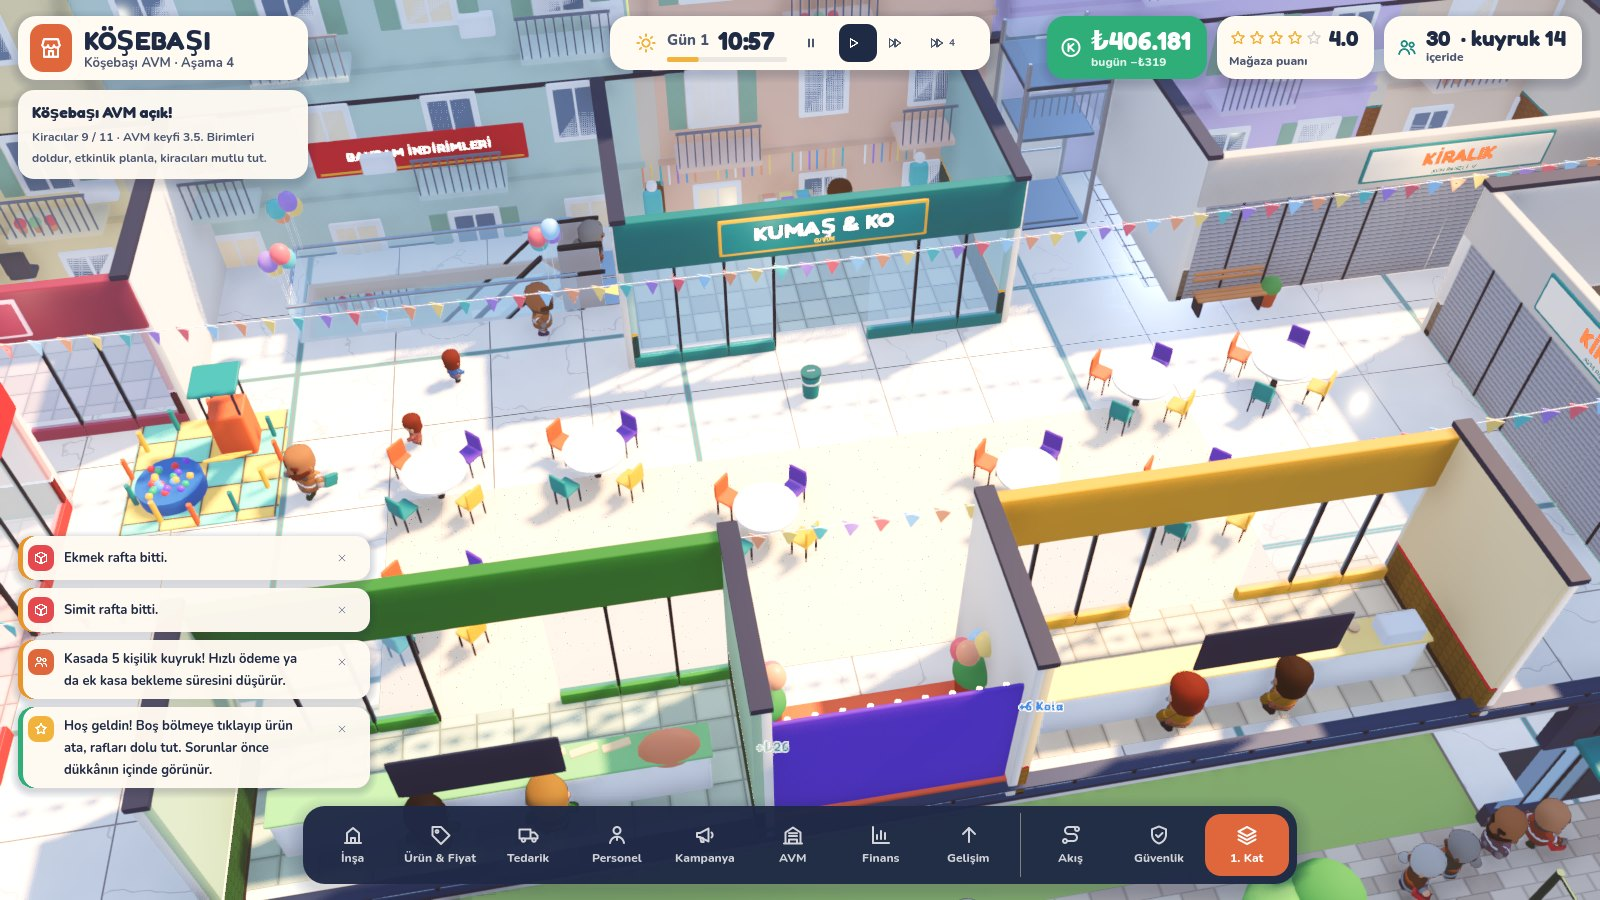
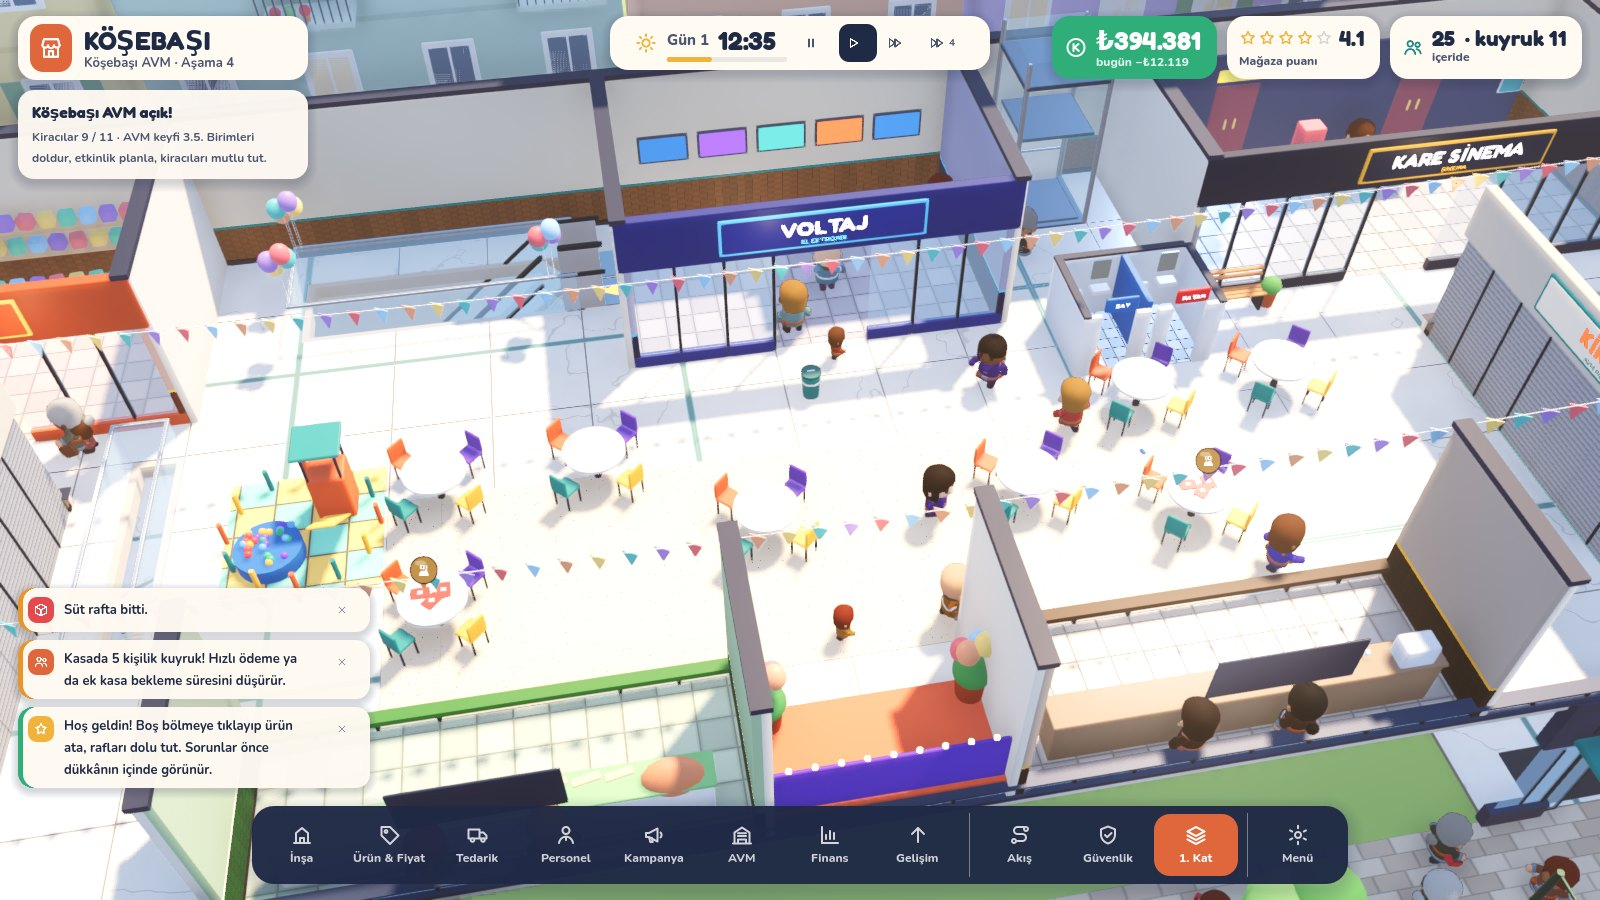
Godot: fix half-tile AVM unit offset, apartments clipping the AVM, selection crash; docs
- Rect2i.get_center() rounds to whole tiles: odd-sized units had floors and
  furniture shifted (cinema lobby wall ended up behind the building wall)
- Back-row apartments step back when the AVM opens so balconies no longer
  poke through its back wall
- Comparing a unit/puddle selection with an agent crashed the tick
- Wet-floor sign lowers slip chance; no baking after 19:00
- README and roadmap: new features, screenshots, honest limits

Claude-Session: https://claude.ai/code/session_01Sq7dPorU9H7nv5mf7S6iVF

diff --git a/godot/README.md b/godot/README.md
@@ -13,6 +13,10 @@ Oyunun yeni ana sürümü. Masaüstünde normal bir oyun gibi çalışır; taray
 | ![Kampanya](docs/kampanya.jpg) | ![Vardiya](docs/vardiya.jpg) |
 | **Güvenlik katmanı (G): kırmızı = kör nokta** | **Mahalle Marketi** |
 | ![Güvenlik](docs/guvenlik.jpg) | ![Mahalle Marketi](docs/market.jpg) |
+| **Odalar: soğuk oda, depo odası, gondol başı teşhir** | **Otopark: arabayla gelen müşteri yaya geçidinden geçer** |
+| ![Odalar](docs/odalar.jpg) | ![Otopark](docs/otopark.jpg) |
+| **Sinema, tuvaletler ve cam asansör** | **Ayarlar menüsü** |
+| ![Sinema](docs/sinema.jpg) | ![Ayarlar](docs/ayarlar.jpg) |
 
 | Gece | Rafa ürün atama |
 |---|---|
@@ -51,6 +55,7 @@ Mac ve Linux için de aynı adımları izle; 2. adımda kendi işletim sistemini
 | `R` | Yerleştirirken döndür. `Shift`+tık: arka arkaya yerleştir. Sağ tık / `Esc`: iptal |
 | `Boşluk` · `1` `2` `3` | Duraklat · 1× / 2× / 4× hız |
 | `C` | Kesik duvar görünümünü aç/kapat |
+| `Esc` | Açık paneli / seçimi kapatır; hiçbiri yoksa menüyü açar (Kaydet, Yükle, Ayarlar) |
 | Dokunmatik ekran | Tek parmakla kaydır, iki parmakla yakınlaştır ve döndür |
 
 ## Görsel yön
@@ -74,6 +79,15 @@ Dört aşamanın dördü de oynanabilir: **Büfe → Mahalle Marketi → Süperm
   - **Fırın tezgâhı ve fırıncı:** ucuz simit ve ekmek; "sıcacık" moral bonusu, fırın ağzı parlar.
   - **Reyon levhaları:** levhasız reyonda müşteri rafı daha geç bulur.
   - **Alışveriş arabası parkı:** haftalık alışverişçi araba iter; park yoksa listesi kısalır.
+  - **Odalar (personele özel, duvarlı):** personel kapıdan içeri girip çıkar.
+    - **Depo Odası:** +240 birim kapasite; satış alanını depo raflarıyla doldurmazsın.
+    - **Soğuk Oda:** yoksa depodaki süt, ayran, peynir ve içeceklerin %30'u her gece bozulur.
+    - **Mola Odası:** personel çay ocağından iki kat hızlı dinlenir, herkes biraz daha hızlı çalışır.
+  - **Ekmek tazeliği:** simit ve ekmek gün içinde bayatlar (rafta "sıcacık / taze / bayat" etiketi). Bayat ekmeği müşteri almayabilir.
+    - Satılmayan ekmek gece çöpe gider (gün sonu raporunda zarar olarak görünür).
+    - Sabah raflar fırıncının gece pişirdiği ya da fırından gelen ekmekle dolar.
+    - İstersen fırın kartından **akşam indirimi** açılır: 19:00'dan sonra %40 ucuz.
+  - **Gondol Başı Teşhir:** koridor başındaki teşhir; yanından geçen müşteri listesinde olmasa da ürünü alabilir.
 - **Güvenlik ve hırsızlık:**
   - Fırsatçı müşteri kimse bakmıyorsa ürünü cebine atar.
   - Dönen tavan kamerasının görüş konisini yüksek raflar keser.
@@ -87,36 +101,47 @@ Dört aşamanın dördü de oynanabilir: **Büfe → Mahalle Marketi → Süperm
 - **Kampanyalar (`K`):**
   - Broşür Dağıtımı: kapıda tanıtımcı durur.
   - Günün İndirimleri: en fazla 3 ürün seçilir, rafta kırmızı etiket çıkar.
+  - **3 Al 2 Öde:** seçilen ürünlerde müşteri üçlü alır, üçüncüsü bedava. Rafta sarı "3=2" etiketi çıkar.
   - Kasa Önü Standı ve Tadım Günü.
+- **Otopark:** "Otopark Anlaşması" yükseltmesi alınınca yolun karşısında otopark açılır. Haftalık alışverişçiler arabayla gelip park eder, yaya geçidinden karşıya geçer, alışveriş sonrası arabasına dönüp gider. Yaya geçidinde biri varken arabalar durur.
 - **Köşebaşı AVM (iki kat):** süpermarket zemin katta kalır, bloğun tamamı alışveriş merkezi olur.
-  - **11 kiracı birimi, 10 kurgusal marka:** giyim, elektronik, kitabevi, oyuncakçı, kuaför, oyun salonu, spor ve üç yemek standı.
+  - **11 kiracı birimi, 11 kurgusal marka:** giyim, elektronik, kitabevi, oyuncakçı, kuaför, oyun salonu, spor, sinema ve üç yemek standı.
+  - **Sinema (KARE SİNEMA):** yalnızca büyük birimlere (45 m² üstü) gelir. Seyirci salona girer, film boyunca görünmez, çıkınca AVM keyfi artar. Yemek katı doluysa sinema daha mutlu olur.
   - **Teklifler ve sözleşme:** her sabah yeni teklifler gelir. Kira artı ciro payı alırsın.
   - **Kiracı memnuniyeti gerekçeli:** "yürüyen merdivene uzak", "yanında gürültülü oyun salonu", "sadece 4 koltuk var" gibi. İki gün mutsuz kalan kiracı çıkar.
   - **Kiracı vitrinleri:** marka renginde vitrin, tabela, kendi mobilyası ve tezgâhta çalışan personel. Boş birimde kepenk ve "KİRALIK" levhası var.
-  - **Katlar arası ulaşım:** yukarı ve aşağı yürüyen merdiven ile cam asansör. Ziyaretçiler katlar arasında yol bulur.
-  - **Arızalar:** merdiven ya da asansör arızalanabilir. Önüne "ARIZALI" bariyeri gelir; tıklayıp tamir ettirirsin.
+  - **Katlar arası ulaşım:** yukarı ve aşağı yürüyen merdiven, cam asansör ve normal merdiven. Ziyaretçiler katlar arasında yol bulur; emekliler asansörü, gençler merdiveni kullanır.
+  - **Arızalar:** yürüyen merdiven ya da asansör arızalanabilir; normal merdiven hiç bozulmaz. Arızanın önüne "ARIZALI" bariyeri gelir.
+    - Tamir için ya dışarıdan ücretli usta çağırırsın (tıkla) ya da **Teknisyen** işe alırsın.
+    - Teknisyen arızaya koşup ücretsiz tamir eder, düzenli bakımla arıza sayısını yarıya indirir.
+  - **Tuvalet:** ziyaretçilerin ihtiyacı var. Tuvalet yoksa herkes söylenir, kiracılar da memnuniyetsizleşir. Kullanıldıkça kirlenir, temizlik görevlisi siler.
   - **Yemek katı:** masalar, sahne, çocuk oyun alanı ve banklar. Masalar kirlenir, temizlik görevlisi toplar.
   - **4 etkinlik:** Akşam Konseri (sahnede grup çalar), İmza Günü, Bayram İndirimleri, Çocuk Şenliği. Her birinin kendi süslemesi var (bayrak dizisi, balonlar, pankart). Güvenliksiz kalabalıkta arbede çıkar.
   - **Ziyaretçiler:** 4 arketip (genç, aile, profesyonel, emekli çift). Aileler çocuklarıyla gelir. Ziyaretçiye tıklayınca aklından geçenler görünür.
   - **Görünüm:** kamera kat değiştirince üst kat gizlenir, uzaklaşınca tüm bina ve çatıdaki "KÖŞEBAŞI AVM" tabelası görünür. Kameraya bakan duvarlar ve vitrinler yakınlaşınca iner.
 - **Ortak sistemler:**
-  - 15 ürün, 21 eşya ve 6 müşteri arketipi.
-  - Personel rolleri: kasiyer, reyon görevlisi, temizlik, güvenlik ve fırıncı.
+  - 15 ürün, 26 eşya ve 6 müşteri arketipi.
+  - Personel rolleri: kasiyer, reyon görevlisi, temizlik, güvenlik, fırıncı ve teknisyen.
   - Tedarik ve toptancı minibüsü.
   - Gün sonu raporu: hırsızlık, kayma, yorgunluk ve AVM satırlarıyla, tavsiyelerle birlikte.
   - 9 yükseltme; uyarılar, ısı haritası, fare üstü bilgiler.
+- **Kayıt ve ayarlar:**
+  - Oyun her sabah otomatik kaydedilir. Açılış ekranında "Devam et" düğmesi çıkar.
+  - Menüden (`Esc`) 3 kayıt yuvasına kaydedip yükleyebilirsin. Yüklenen oyun o günün sabahından başlar.
+  - Ayarlar: grafik kalitesi (Düşük / Orta / Yüksek), arayüz boyutu, tam ekran, kesik duvar, 4 ses kanalı (ana, müzik, efekt, ortam). Ayarlar kalıcıdır.
+  - Kayıtlar Windows'ta `%APPDATA%\Godot\app_userdata\Tezgâh` klasöründe durur.
+- **Ses:** tüm sesler kodla sentezleniyor, hiçbir ses dosyası yok.
+  - Efektler: yazar kasa, kapı zili, alarm, kayma, yerleştirme, uyarı ve arayüz sesleri.
+  - Müzik: gündüz ve akşam için iki ayrı parça, saate göre yumuşakça geçer.
+  - Ortam: sokak uğultusu ve kuş sesi; dükkân doldukça kalabalık uğultusu artar.
 
-## Henüz olmayanlar (açıkça)
+## Sınırlar (açıkça)
 
-- **Kayıt / yükleme** ve **ayarlar menüsü** yok. Oyun her açılışta baştan başlar. Web sürümünde vardı, Godot'ya taşınmadı.
-- **Müzik ve ses efektleri** yok.
-- Web sürümünde de olmayan, planlanan işler:
-  - AVM: merdiven, sinema, tuvalet ve bakım ekibi.
-  - Süpermarket: personel-only oda / soğuk oda, fırın ürünlerinde tazelik, "3 al 2 öde", fiziksel otopark alanı.
+- Kayıt gün içindeki anı saklamaz: yüklenen oyun o günün 07:00'sinden başlar, o an içerideki müşteriler kaydedilmez.
 - Depoda hazır bir `.exe` yok. Oyun editörden F5 ile çalışır.
   - Tek dosyalık `.exe` istersen: editörde **Proje → Dışa Aktar** (Project → Export) menüsüne gir. Godot bir kez "Export Templates" indirmeni isteyecek, kabul et. Ardından hazır **Windows** ayarıyla **Proje Dışa Aktar**'a bas; `export/Tezgah.exe` oluşur.
   - Dışa aktarma ayarı depoda hazır, ancak bu adımı kendi ortamımda deneyemedim. Editörden F5 ile çalıştırmayı test ettim.
-- Süpermarket ve AVM, betikli başsız simülasyonlarla ve ekran görüntüleriyle test edildi. Uzun oyun dengesi (kaç günde genişlenir, kira/etkinlik fiyatları) gerçek oyuncularla henüz denenmedi.
+- Denge betikli simülasyonlarla ayarlandı: her aşama için hazır bir düzenle günlerce oynatıp kâr, puan, kayıp ve bayat ekmek sayılarına baktım. Gerçek oyuncularla oyun testi yapılmadı; bunu benim yapmam mümkün değil. Genişleme hedeflerinin (özellikle AVM için 4,0★) zorluğu oynayarak ayarlanmalı.
 
 ## Varlıklar ve lisanslar
 
@@ -130,6 +155,7 @@ Dört aşamanın dördü de oynanabilir: **Büfe → Mahalle Marketi → Süperm
 godot/
   project.godot          ana sahne: scenes/main.tscn
   scripts/core/          cfg.gd (sabitler, palet), db.gd (ürünler, eşyalar, arketipler, aşamalar, kampanyalar),
+                         save.gd (JSON kayıt), settings.gd (ayarlar), game_audio.gd (ses sentezi, müzik, ortam),
                          mall_db.gd (AVM birimleri, kiracılar, ziyaretçiler, etkinlikler, merdiven/asansör)
   scripts/sim/           grid.gd (A*, kapı kenarları, katlar), fixture.gd, agent.gd (katlar arası bacaklar),
                          customer.gd, staff.gd (vardiya, görevler), mall.gd (kiracı, etkinlik, arıza), visitor.gd

diff --git a/docs/ROADMAP.md b/docs/ROADMAP.md
@@ -4,6 +4,8 @@ Her aşama sadece daha büyük bir bina değildir. Her biri **yeni bir müşteri
 
 Durum etiketleri: ✅ uygulandı · 🟡 kısmen · ⬜ planlandı
 
+> Ana sürüm artık Godot (`godot/`). Aşağıdaki tablolar Godot sürümünün durumunu gösterir; eski web sürümünde olmayan birkaç sistem (odalar, tazelik, sinema, tuvalet, teknisyen, fiziksel otopark) yalnızca Godot sürümünde var.
+
 ---
 
 ## Aşama 1: Mahalle Büfesi ✅
@@ -36,12 +38,12 @@ Durum etiketleri: ✅ uygulandı · 🟡 kısmen · ⬜ planlandı
 | Reyon levhaları | ✅ | Levhanın 5 m yakınındaki raflar daha hızlı bulunur. Levhasız reyonda arama uzar |
 | Bantlı ve self-servis kasa | ✅ | Bant %35 hızlı. Self-servis kasiyer istemez ama yavaş ve kayıp riski taşır |
 | Güvenlik ve hırsızlık | ✅ | Fırsatçı, kamera (görüş konisi, yüksek raflar görüşü keser), alarm kapısı, güvenlik görevlisi, `G` katmanı |
-| Fırın ve fırıncı | ✅ | Ucuz üretim ve "sıcacık" moral bonusu. 🟡 Tazelik ve bayatlama yok |
+| Fırın ve fırıncı | ✅ | Ucuz üretim ve "sıcacık" moral bonusu. Tazelik, bayatlama, gece çöpe giden ekmek, akşam indirimi |
 | Vardiya ve yorgunluk | ✅ | Tam, sabah ve akşam vardiyası. Enerji barı, çay ocağında mola |
 | Alışveriş arabası | ✅ | Haftalık Alışverişçi araba iter. Park yoksa listesi kısalır |
-| Kampanyalar | ✅ | Broşür, Günün İndirimleri, Kasa Önü Standı, Tadım Günü. 🟡 "3 al 2 öde" ve gondol başı teşhir yok |
-| Oda sistemi | ⬜ | Personel-only depo odası, soğuk oda, mola odası. `doorEdges` altyapısı hazır |
-| Otopark | 🟡 | Yükseltme olarak var (müşteri artışı). Fiziksel otopark alanı yok |
+| Kampanyalar | ✅ | Broşür, Günün İndirimleri, 3 Al 2 Öde, Kasa Önü Standı, Tadım Günü. Gondol başı teşhir eşyası |
+| Oda sistemi | ✅ | Depo odası, soğuk oda (yoksa soğuk stok bozulur), mola odası. Personel kapıdan girip çıkar |
+| Otopark | ✅ | Yolun karşısında otopark; arabayla gelen haftalık alışverişçi yaya geçidinden geçer, arabalar yayaya yol verir |
 
 **Görsel imza:** tavandan asılı kategori levhaları, bantlı kasaların dönen bandı, parlayan fırın ağzı, kampanya günü kapıda tanıtımcı.
 
@@ -52,12 +54,12 @@ Durum etiketleri: ✅ uygulandı · 🟡 kısmen · ⬜ planlandı
 | Sistem | Durum | Not |
 |---|---|---|
 | Katlar | ✅ | Kat başına `Grid`. Kat seçici (`PageUp`/`PageDown`). Görünmeyen kat gizlenir, uzaktan bakınca tüm bina görünür |
-| Katlar arası ulaşım | ✅ | Yukarı / aşağı yürüyen merdiven, cam asansör. Ajanlar "yürü + bin" bacaklarıyla katlar arası yol bulur. 🟡 Merdiven yok |
+| Katlar arası ulaşım | ✅ | Yukarı / aşağı yürüyen merdiven, cam asansör. Ajanlar "yürü + bin" bacaklarıyla katlar arası yol bulur. Normal merdiven de var, hiç bozulmaz |
 | Kiracılar | ✅ | 11 birim, 10 kurgusal marka, günlük teklifler, kira + ciro payı, gerekçeli memnuniyet, mutsuz kiracı çıkar |
 | Yemek katı | ✅ | İki yemek standı, masa ve koltuk, masa kirlenmesi, ayakta kalan ziyaretçi |
-| Eğlence | 🟡 | Çocuk oyun alanı, oyun salonu (gürültülü kiracı). Sinema yok |
+| Eğlence | ✅ | Çocuk oyun alanı, oyun salonu (gürültülü kiracı), sinema (büyük birim, seyirci salona girer) |
 | Etkinlikler | ✅ | Konser, İmza Günü, Bayram İndirimleri, Çocuk Şenliği. Bugüne veya yarına planlanır, süslemeler görünür, güvenliksiz kalabalıkta arbede |
-| Tesis yönetimi | 🟡 | Yürüyen merdiven arızası ve tamir, elektrik ve bakım gideri, Merkezi Klima yükseltmesi. Tuvalet, bakım ekibi, tahliye yok |
+| Tesis yönetimi | ✅ | Arıza ve tamir, teknisyen (ücretsiz tamir, arızayı yarıya indirir), tuvalet ihtiyacı ve temizliği, Merkezi Klima. 🟡 Tahliye yok |
 
 **Görsel imza:** cam korkuluklu galeri ve kayan yürüyen merdiven bantları, cam asansör kabini, kiracı vitrinlerinin marka renkleri, konser sahnesi ve balonlar, gece yanan dev AVM tabelası.
 
@@ -67,7 +69,7 @@ Durum etiketleri: ✅ uygulandı · 🟡 kısmen · ⬜ planlandı
 
 | Konu | Durum | Sonra |
 |---|---|---|
-| Kayıt ve yükleme | ✅ Günlük otomatik kayıt + 3 yuva (`localStorage`) | Dosyaya dışa aktarma, kayıt sürümleme ve göç |
+| Kayıt ve yükleme | ✅ Günlük otomatik kayıt + 3 yuva (Godot: `user://` içinde JSON) | Dosyaya dışa aktarma, kayıt sürümleme ve göç |
 | Ayarlar | ✅ Kalite, ses kanalları, arayüz ölçeği, kesik duvar | Tuş atama, renk körlüğü paleti |
 | Ses | ✅ Üretken müzik + ortam, 4 kanal | Kiracıya özel vitrin sesleri, etkinlik müziği |
 | Dokunmatik | ✅ Kaydır, kıstır, çevir, dokunarak yerleştir, alttan açılan paneller | Dikey telefon düzeni, dokunmatik için büyük tablo görünümleri |
@@ -75,10 +77,12 @@ Durum etiketleri: ✅ uygulandı · 🟡 kısmen · ⬜ planlandı
 | Performans | Statik birleştirme, AVM'de ~120 ajan akıcı | `InstancedMesh` karakterler, uzak ajanlar için LOD, görünmeyen katta soyut sim |
 | Test | Başsız tarayıcıda senaryolu simülasyon (elle) | Vitest ile sim birim testleri, CI'da gece dengesi raporu |
 
-## Sıradaki 5 iş (öneri)
+## Sıradaki işler (öneri)
 
-1. **Oda sistemi:** personel-only depo odası ve soğuk oda. Depo raflarını satış alanından çıkarmak yerleşim bulmacasını derinleştirir.
-2. **Tazelik:** fırın ürünlerinde yaş, akşam indirim rafı, bayat ürün kaybı.
-3. **AVM tesisleri:** tuvalet ve temizlik ihtiyacı, bakım ekibi (arızaları oyuncu yerine çözer), merdiven.
-4. **Rakip dükkân:** karşı köşeye açılan zincir market. Fiyat savaşı ve sadakat kartının anlamı.
-5. **Oyun testi ve denge:** hedef süreler (Büfe → Market ~45 dk, Market → Süpermarket ~2 saat, Süpermarket → AVM ~3 saat), otomatik denge raporu.
+Oda sistemi, tazelik ve AVM tesisleri (tuvalet, teknisyen, merdiven) Godot sürümünde tamamlandı. Sırada:
+
+1. **Rakip dükkân:** karşı köşeye açılan zincir market. Fiyat savaşı ve sadakat kartının anlamı.
+2. **Oyun testi ve denge:** gerçek oyuncularla hedef süreler (Büfe → Market ~45 dk, Market → Süpermarket ~2 saat, Süpermarket → AVM ~3 saat).
+3. **AVM tahliye tatbikatı / yangın alarmı:** güvenlik ve kapı düzeninin sınavı.
+4. **Kiracıya özel sesler ve etkinlik müziği.**
+5. **Windows için hazır `.exe` sürümü** (GitHub Releases üzerinden).
